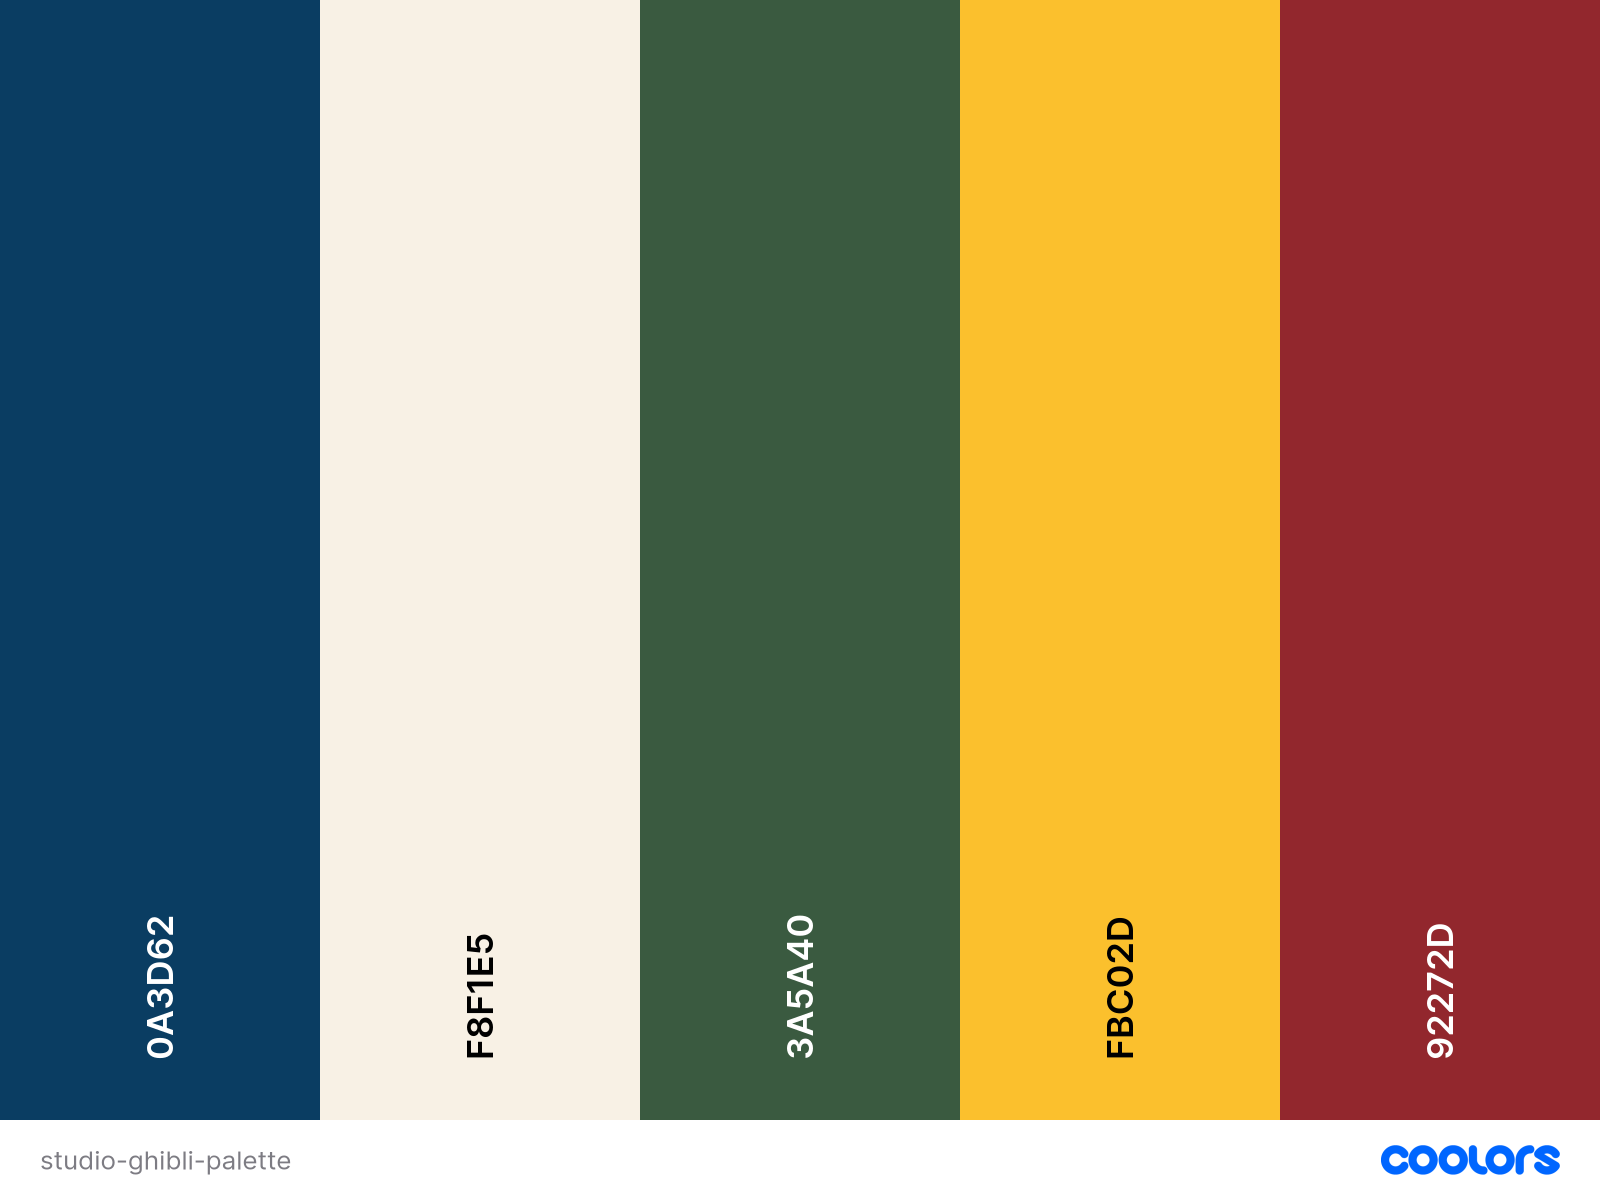
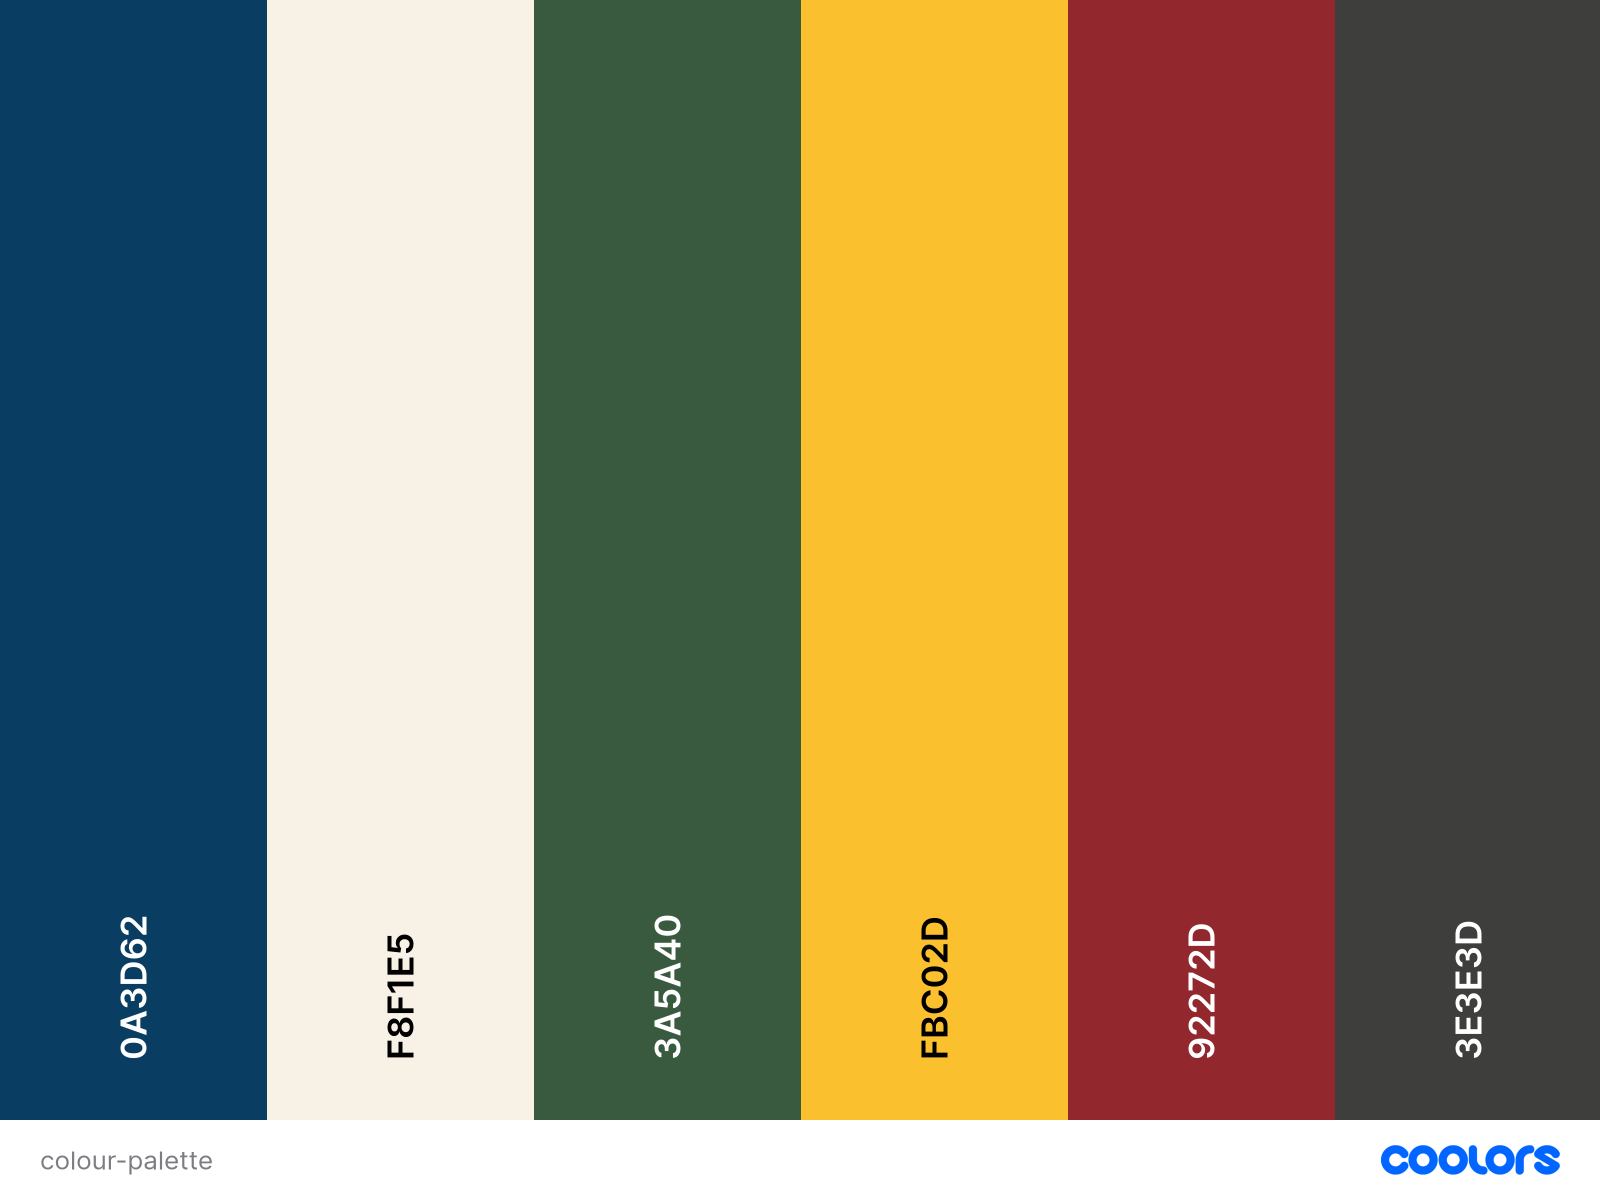
Update README & add wireframes

diff --git a/README.md b/README.md
@@ -48,47 +48,88 @@ Targeted towards both casual viewers and dedicated enthusiasts, the quiz provide
 
 ## User Stories
 
-- As a Studio Ghibli Fan, I want to test my knowledge of Studio Ghibli movies, so that I can see how well I know the films.
+- As a **Studio Ghibli Fan**, I want to test my knowledge of Studio Ghibli movies, so that I can see how well I know the films.
 
-- As a casual visitor, I want the quiz to be easy to navigate and visually appealing so that I can enjoy the experience without any frustration.
+- As a **casual visitor**, I want the quiz to be easy to navigate and visually appealing so that I can enjoy the experience without any frustration.
 
-- As a mobile user, I want to be able to take the quiz on my phone, so that I can enjoy it wherever I am.
+- As a **mobile user**, I want to be able to take the quiz on my phone, so that I can enjoy it wherever I am.
 
-- As a trivia enthusiast, I want to see a variety of question types (e.g., multiple-choice, true/false, image-based), so that the quiz stays interesting and challenging.
+- As a **trivia enthusiast**, I want to see a variety of question types (e.g., multiple-choice, true/false, image-based), so that the quiz stays interesting and challenging.
 
-- As a user with visual impairments, I want the website to be accessible, so that I can participate in the quiz just like everyone else.
+- As a **user with visual impairments**, I want the website to be accessible, so that I can participate in the quiz just like everyone else.
 
-- As a Studio Ghibli expert, I want to be challenged by difficult questions, so that I can test the depth of my knowledge.
-
-- As a user who has completed the quiz, I want to see my final score and have the option to retake the quiz, so that I can try to improve my score.
+- As a **user who has completed the quiz**, I want to see my final score and have the option to retake the quiz, so that I can try to improve my score.
 
 ## Design
 
 ### Colour Palette
 
 ![Studio Ghibli Quiz Colour Palette](assets/images/readme/colour-palette.png)
-Below is a detailed description of each colour and its usage:
 
-**#0A3D62 (Deep Teal/Indigo Blue)**: This color evokes a sense of calm and mystery, similar to the skies and ocean scenes often depicted in Studio Ghibli films. This can work well for primary text, headers, or even background sections where strong contrast is needed.
-
-**#FBC02D (Golden Yellow)**: This bright, warm colour brings to mind sunlight, warmth, and the vibrancy of nature. It's reminiscent of the golden fields and sunsets in many Ghibli films. This colour is great for call-to-action buttons, highlights, and elements that need to draw attention.
-
-**#92272D (Rusty Red/Burgundy)**: This deep red adds a grounded, earthy feel to your palette, reflecting the natural and rustic tones in Studio Ghibli's worlds. Ideal for accents, secondary buttons, or borders to add depth and contrast to your design.
-
-**#3A5A40 (Forest Green)**: A rich, natural green that represents the lush, verdant landscapes often seen in Ghibli films. It’s calming and organic. This colour can be used for navigation bars, background accents, or secondary text, offering a natural balance in the palette.
-
-**#F8F1E5 (Light Ivory)**: A soft, neutral background colour that’s warm and inviting, similar to the gentle tones found in Ghibli’s settings. This is perfect for your main background colour, providing a clean, readable surface for text and other elements.
+**#0A3D62 (Indigo Blue)**
+**#F8F1E5 (Light Ivory)**
+**#3A5A40 (Forest Green)**
+**#FBC02D (Golden Yellow)**
+**#92272D (Rusty Red)**
+**#3E3E3D (Shadow Slate)**
 
 ### Typography
 
 The quiz utilises **ITC Avant Garde Gothic**, the same font used in the Studio Ghibli logo, to maintain brand consistency and evoke the unique aesthetic of the studio:
 
 - **Headings:** _ITC Avant Garde Gothic LT Medium_ is used for headings, providing a bold and clear emphasis on key sections.
+
 - **Body Text:** _ITC Avant Garde Gothic LT Book_ is used for the main text, offering a clean and readable experience for users.
 
 ### Imagery
 
+#### Logo and Favicon
+
+For the website's branding, I have chosen a Totoro icon as both the logo and favicon. Totoro, one of the most beloved characters from Studio Ghibli's film My Neighbor Totoro, serves as a recognisable and charming symbol that immediately connects users with the magic of Studio Ghibli. The logo appears prominently in the top-left corner of each page, reinforcing the brand identity, while the favicon provides a small but effective visual cue in the browser tab, helping users easily identify the quiz among their open tabs.
+
+![Totoro Logo](assets/images/logos/logo-small.png)
+
+#### Background
+
+To further evoke the whimsical and natural aesthetics characteristic of Studio Ghibli films, the website features a background image of the garden from The Secret World of Arrietty. This lush, vibrant garden setting creates a visually captivating backdrop that complements the overall theme of the quiz. The background imagery not only enhances the visual appeal of the site but also immerses users in the world of Studio Ghibli, aligning with the fantastical and nature-centric elements of the films.
+
+![Arrietty garden background image](assets/images/backgrounds/background.webp)
+
+#### Image-Based Questions
+
+The Studio Ghibli Quiz features two image-based questions to enhance user engagement and provide a more interactive experience. These questions incorporate high-quality images from Studio Ghibli films, challenging users to recognise and recall visual details. This approach not only makes the quiz more dynamic but also deepens users' connection to the films. The images are carefully chosen and optimised for various devices, and alternative text descriptions are provided to ensure accessibility for all users. Overall, these visual questions enrich the quiz experience by celebrating the distinctive artistry of Studio Ghibli.
+
 ## Wireframes
+
+The following wireframes outline the basic layout and design of the key pages in the Studio Ghibli Quiz website. Each page follows a consistent structure, including a logo, navigation menu, and footer, to ensure a cohesive user experience.
+
+- **Logo:** The Studio Ghibli Quiz logo will appear in the top-left corner of each page, providing consistent branding.
+- **Navigation Menu:** Located at the top of each page, the navigation menu will include links to the Home, Quiz, Instructions, About, and Contact pages, allowing users to easily move between sections of the site.
+- **Footer:** The footer will appear at the bottom of each page, potentially including copyright information, social media links, and any additional navigation links.
+
+### Home Page
+
+The home page serves as the entry point to the quiz. In the main content area, users are greeted with the title of the quiz prominently displayed at the top. Below the title, a welcoming message introduces the quiz and sets the tone for the experience. A large, easily identifiable button is placed centrally on the page, inviting users to start the quiz. This simple and clear design helps users understand the purpose of the site and encourages them to begin the quiz without any confusion.
+
+![Wireframe of Home page](assets/images/readme/wireframe-home.png)
+
+### Quiz Page
+
+The quiz page is where the interactive part of the experience takes place. The main content area is dedicated to presenting the current quiz question, which is displayed prominently at the top of the page. Below the question, users will find multiple-choice answers, presented as buttons or selectable options. This layout ensures that the focus remains on the question and answers, making it easy for users to engage with the quiz. At the bottom of the content area, a "Next" button allows users to proceed to the next question once they have made their selection.
+
+![Wireframe of Quiz page](assets/images/readme/wireframe-quiz.png)
+
+### Instructions and About Pages
+
+The Instructions and About pages share a similar layout, designed to provide users with essential information. In the main content area, the title of the page, such as "Instructions" or "About," is displayed at the top, followed by a block of text. On the Instructions page, this text guides users on how to play the quiz, while the About page offers background information about Studio Ghibli and the quiz itself. This consistent structure ensures that users can easily access and absorb the information they need.
+
+![Wireframe of Instructions and About page](assets/images/readme/wireframe-instructions_and_about.png)
+
+### Contact Page
+
+The Contact page is designed to facilitate communication between users and the quiz creators. The main content area includes a title at the top, followed by a brief piece of text inviting users to reach out with any questions or feedback. Below this text, a simple contact form is provided, which includes fields for the user’s name, email address, and a message. A submit button at the bottom of the form allows users to send their inquiries or comments directly from the page.
+
+![Wireframe of Contact page](assets/images/readme/wireframe-contact.png)
 
 # Features
 
